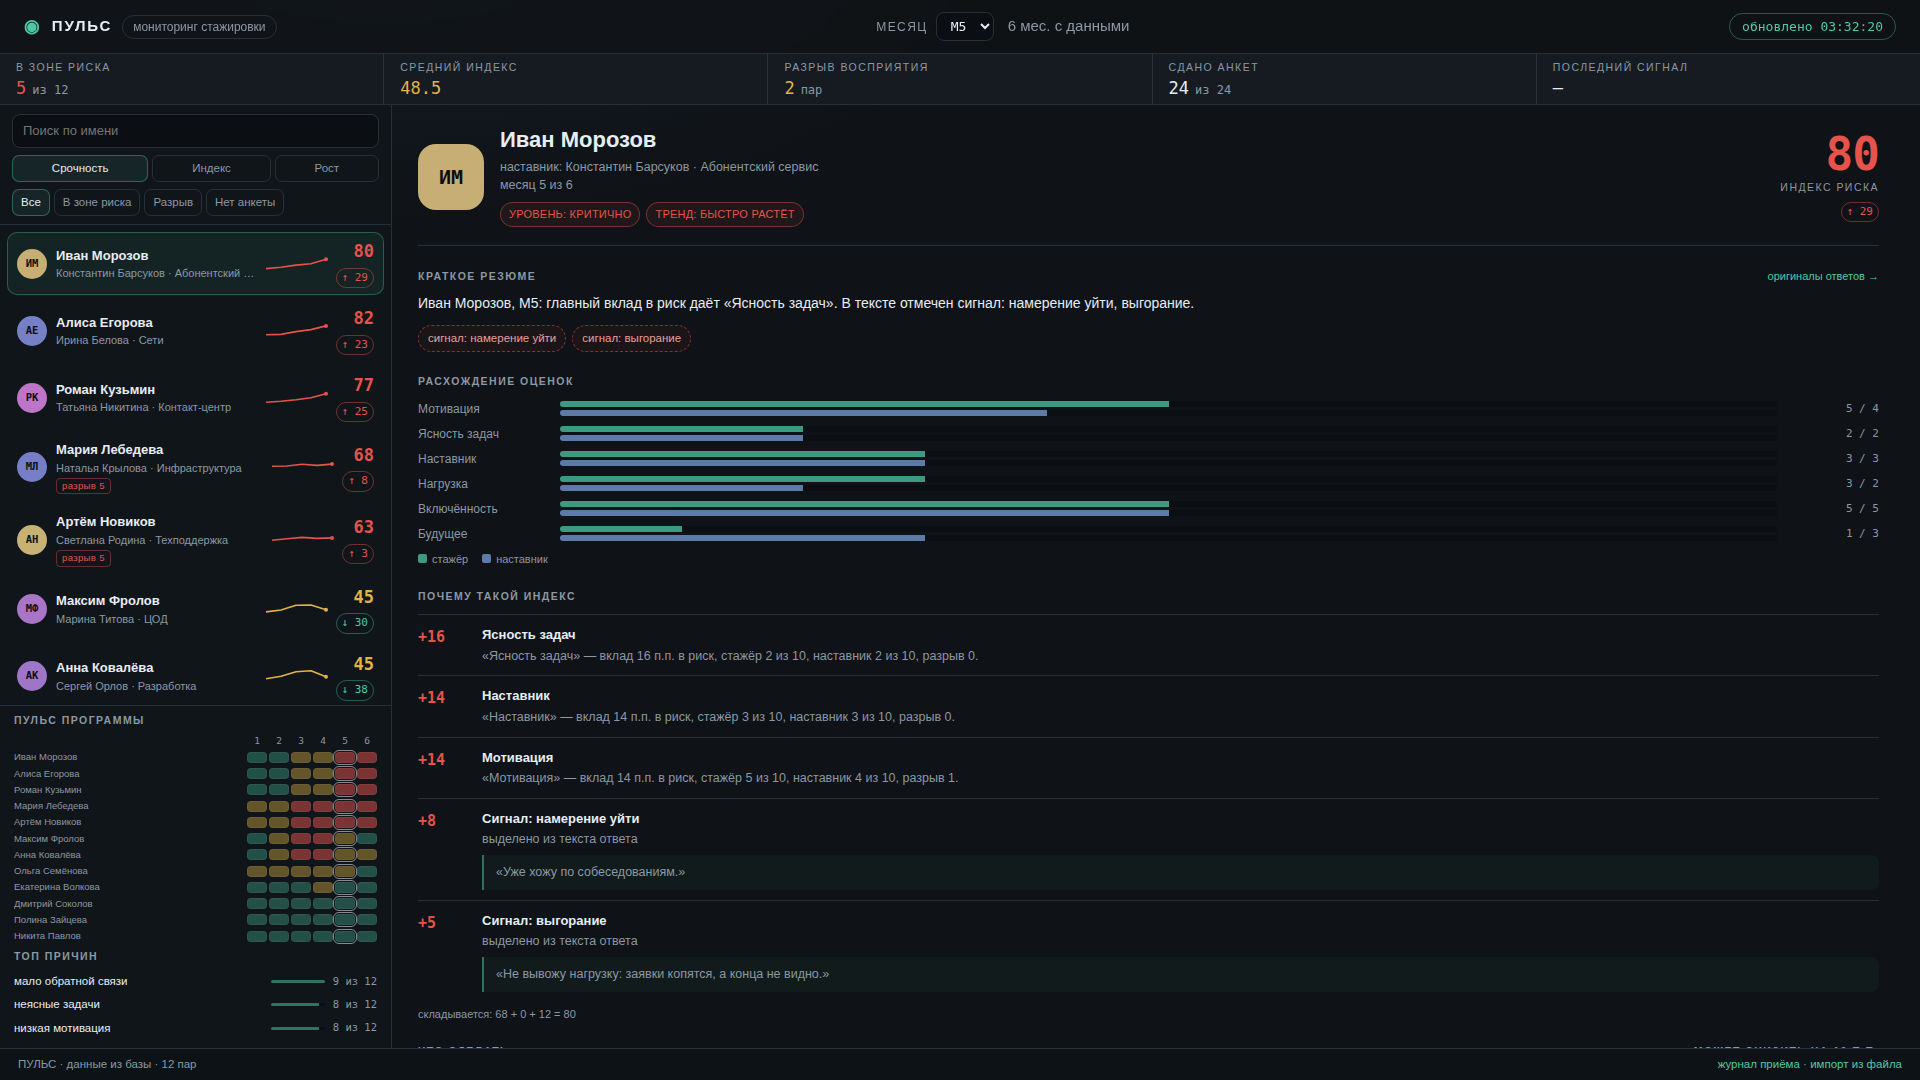
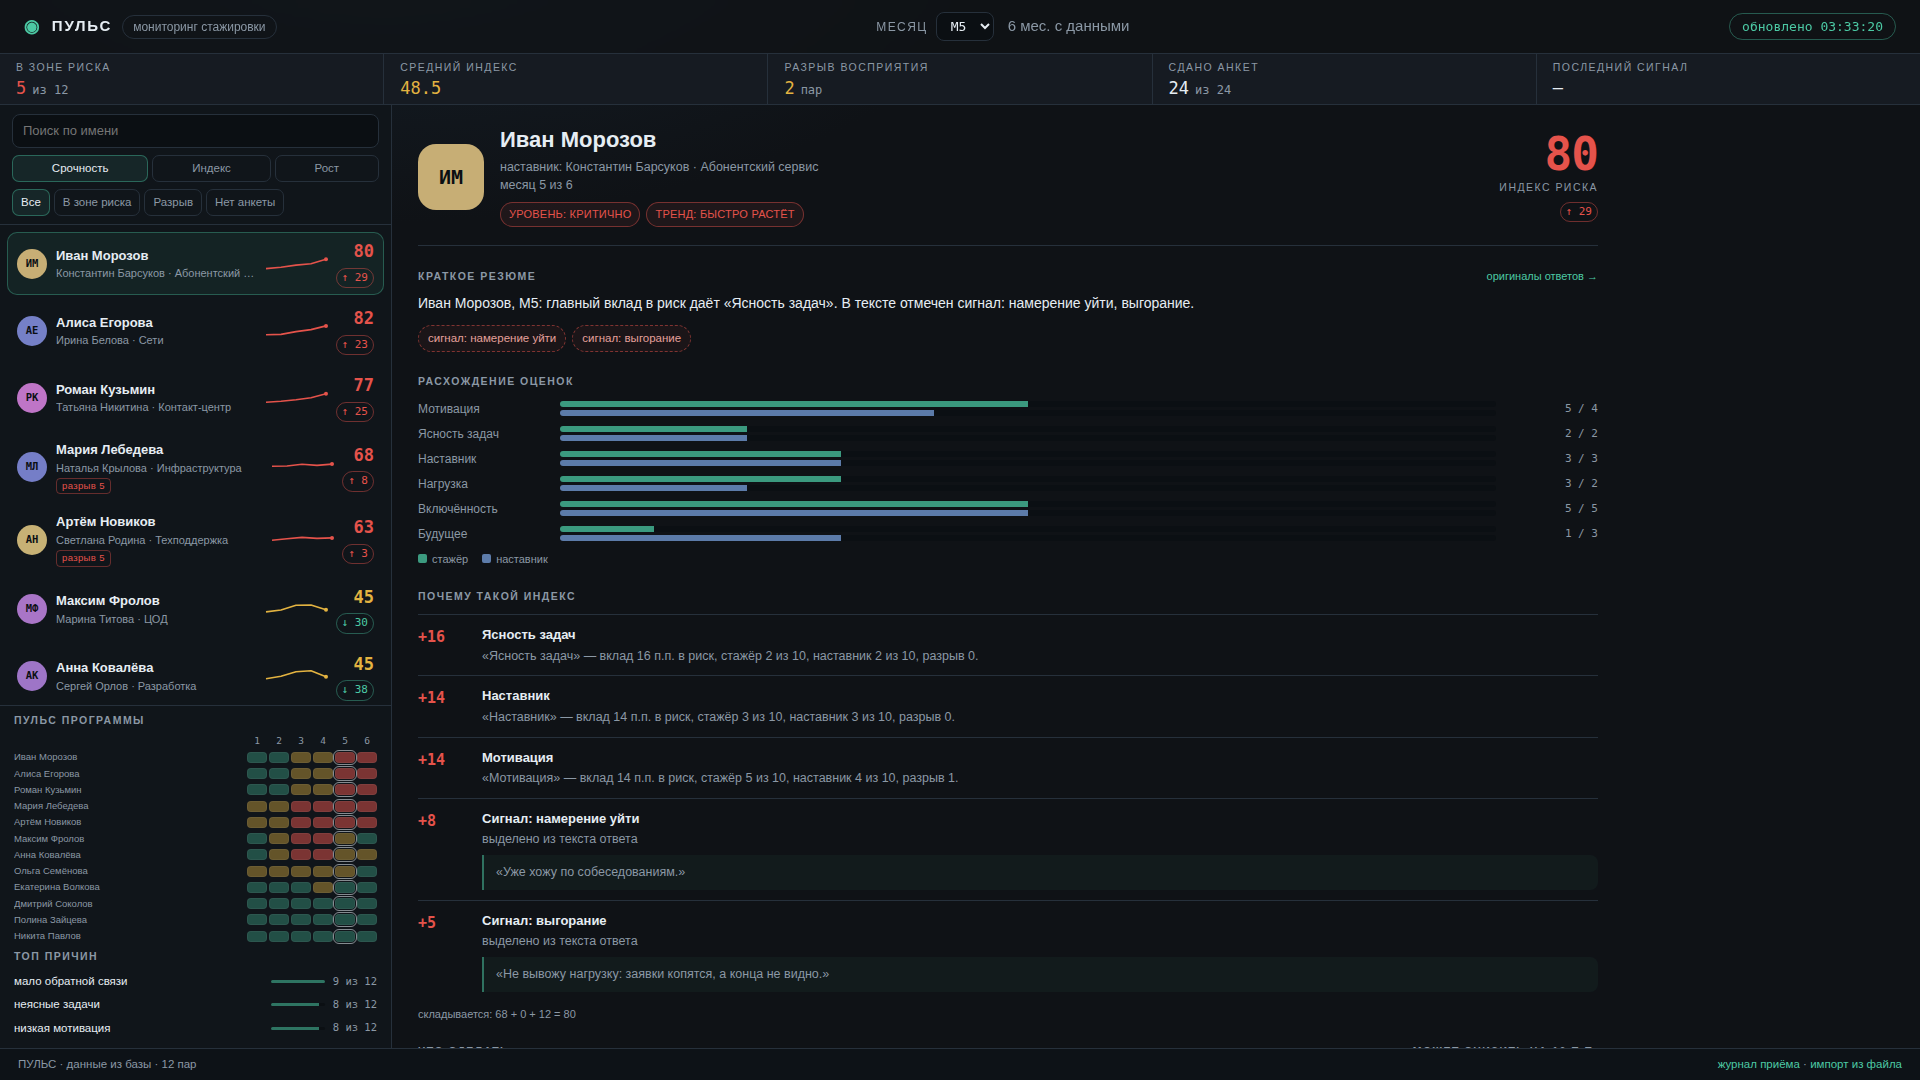
Экран: ширина контента карточки на широких мониторах

diff --git a/app/static/dashboard.css b/app/static/dashboard.css
@@ -719,7 +719,7 @@ body[data-view="exec"] .kpi-extra { display: flex; }
 
 /* Широкий экран: строки не должны растягиваться на полтора метра. */
 @media (min-width: 1600px) {
-  .dash .card > * { max-width: 1180px; }
+  .dash .card > * { max-width: 1400px; }
 }
 
 /* Низкий экран: матрица прокручивается внутри, чтобы список и причины остались видны. */
